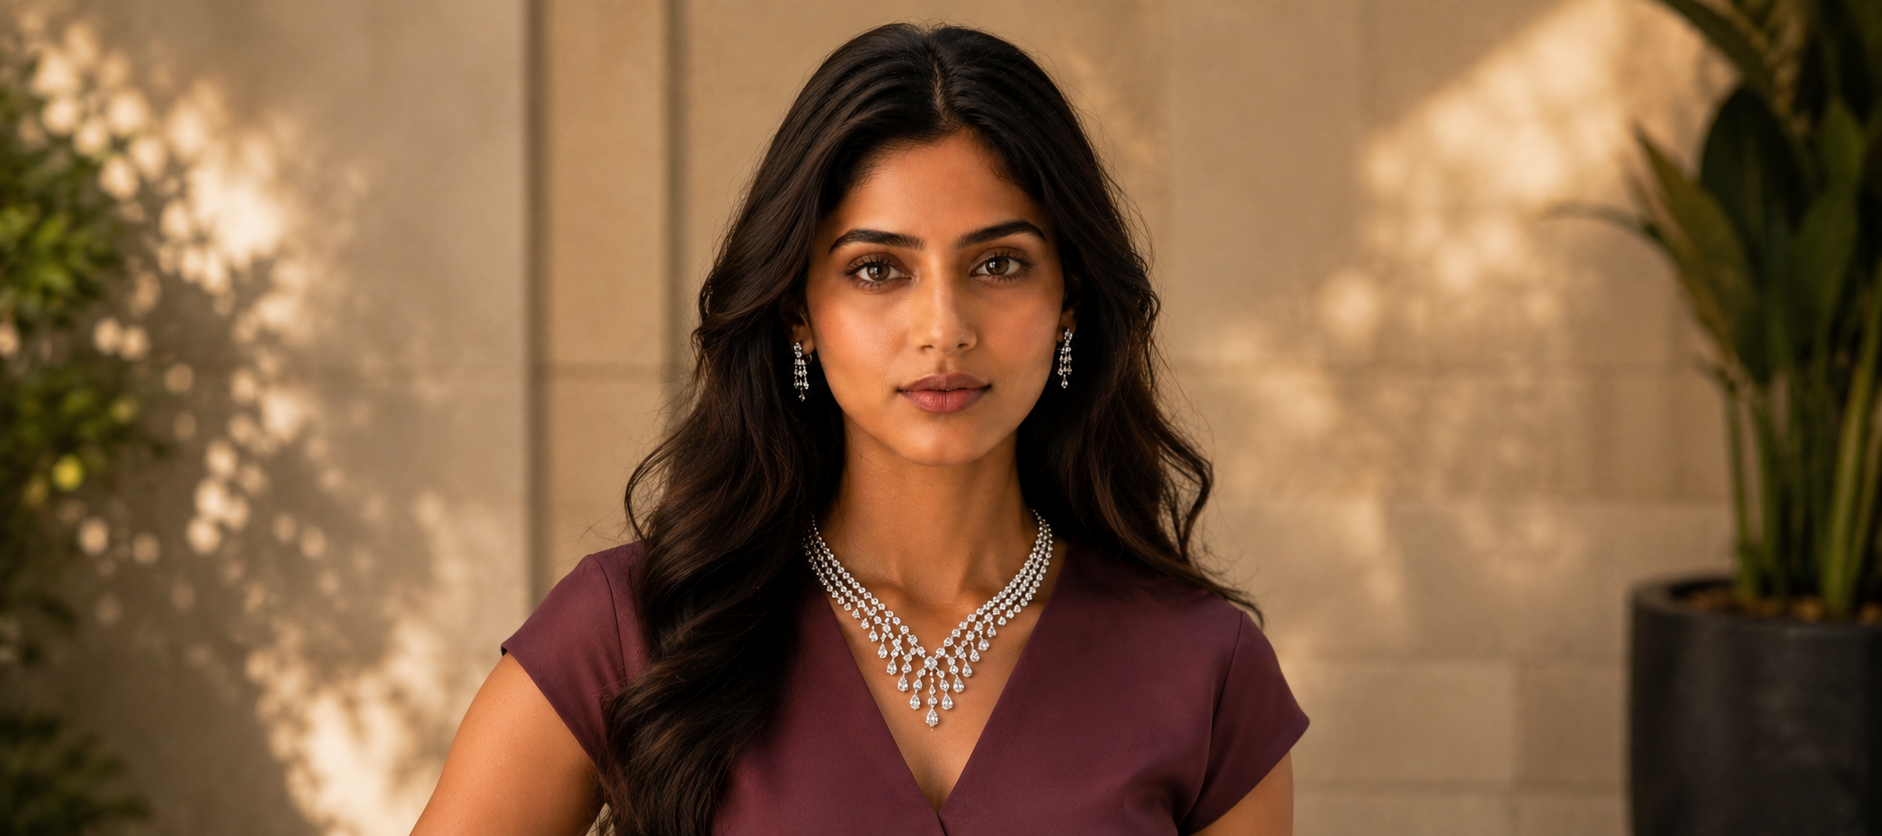
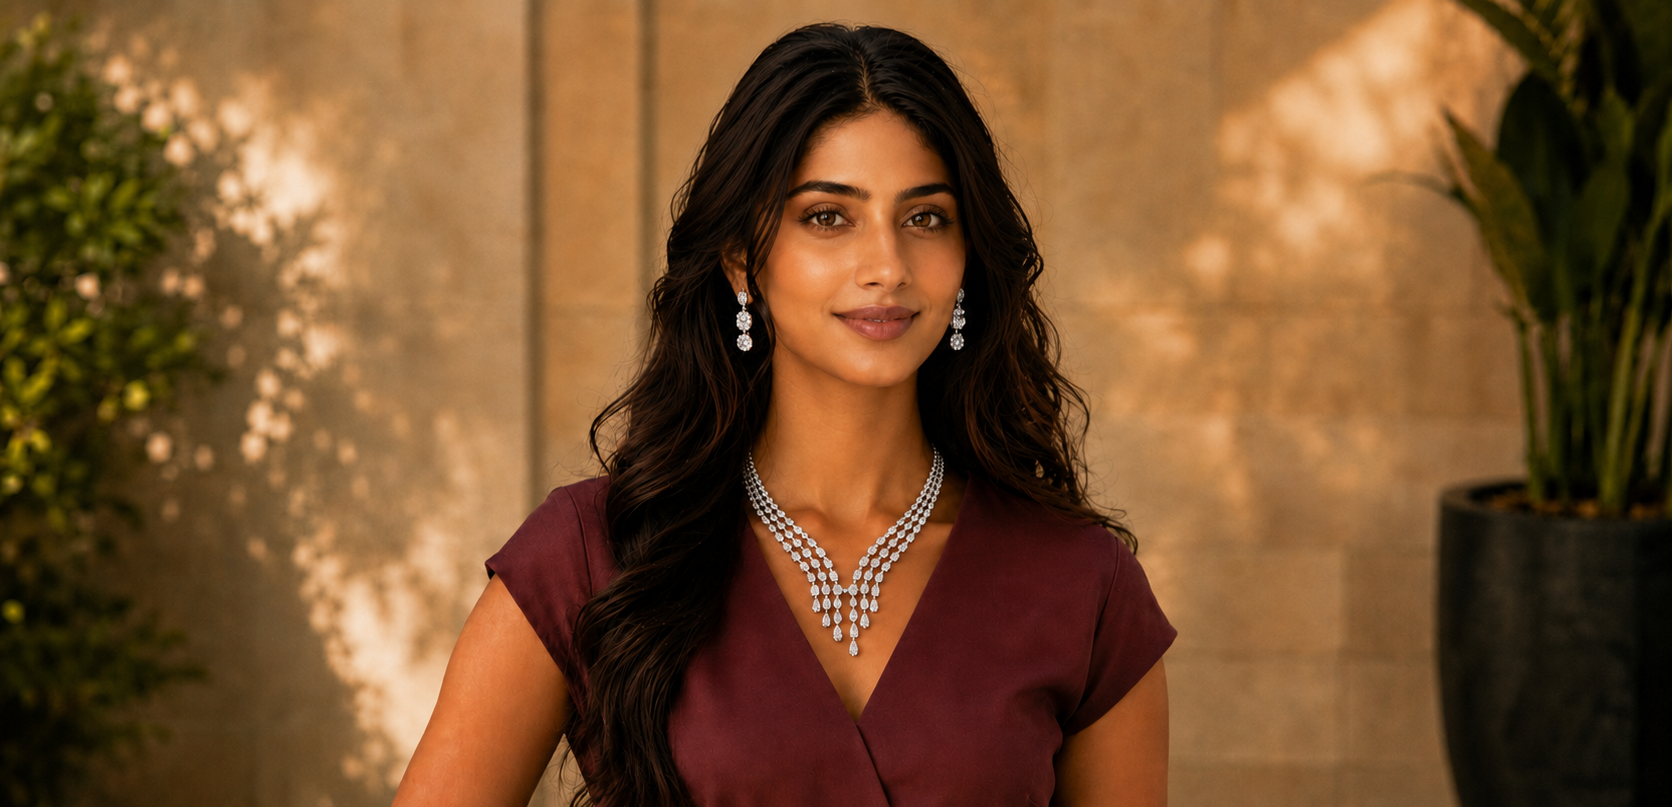
Refactor code structure for improved readability and maintainability

diff --git a/client/src/pages/HomePage.tsx b/client/src/pages/HomePage.tsx
@@ -69,7 +69,7 @@ const FAQS: FAQ[] = [
     {
         id: "2",
         question: "Are Lab Grown Diamonds real?",
-        answer: "Yes, lab-grown diamonds are 100% real diamonds. A diamond is categorized by its chemical structure and composition—not its origin. Both lab-grown and mined diamonds possess the exact same crystalline structure of pure carbon atoms, ensuring that they share the identical properties of genuine diamonds."
+        answer: "A diamond is categorized by its chemical structure and composition—not its origin. Both lab-grown and mined diamonds possess the exact same crystalline structure of pure carbon atoms, ensuring that they share the identical properties of genuine diamonds."
     },
     {
         id: "3",
@@ -78,8 +78,8 @@ const FAQS: FAQ[] = [
     },
     {
         id: "4",
-        question: "Are Lab-Grown Diamonds worth buying and do you offer buyback?",
-        answer: "Absolutely. Lab-grown diamonds are worth buying because they are real diamonds that last forever. Just like traditional jewellers offer terms on natural diamonds, TBA offers a reliable value-assurance policy including an 80% buyback and a 100% exchange policy on our lab-grown diamond collections."
+        question: "Are Lab-Grown Diamonds worth buying?",
+        answer: "Absolutely. Lab-grown diamonds are worth buying because they are LIKE real diamonds that last forever. TBA offers wholesale price to the customers, beacuse of whoch it is not reasonablr to provide buy back. exchange can be done at any point of time."
     },
     {
         id: "5",
@@ -89,7 +89,7 @@ const FAQS: FAQ[] = [
     {
         id: "6",
         question: "Are Lab-Grown Diamonds graded and certified?",
-        answer: "Yes. Lab-grown diamonds undergo the same rigorous grading procedures as mined diamonds. They are certified by leading global gemological laboratories, such as IGI, SGL, and EGL. Every single lab-grown diamond piece used by TBA is carefully graded and certified by these renowned, third-party organizations."
+        answer: "Yes. Lab-grown diamonds undergo the same rigorous grading procedures as mined diamonds. They are certified by leading global gemological laboratories, such as IGI, SGL, and GCI. Every single lab-grown diamond piece used by TBA is carefully graded and certified by these renowned, third-party organizations."
     },
     {
         id: "7",
@@ -333,16 +333,13 @@ export default function HomePage() {
                     </div>
                 </section>
 
-                <section className="bg-[var(--color-bg)] px-4 pb-6 pt-2 text-center md:px-6">
-                    <h1 className="font-primary text-3xl text-[var(--color-teal)] sm:text-4xl">Fine Gold, Silver &amp; Lab Grown Diamond Jewellery</h1>
-                </section>
                 {/* 2. PrimeSelection Component */}
                 <PrimeSelection />
 
                 {/* 3. Best Seller Showcase */}
                 {bestSellerProducts.length > 0 && <section className="reveal-section py-3 bg-[var(--color-bg)]" id="collection-grid">
                     <div className="container">
-                        <div className="flex flex-col items-center mb-16 text-center">
+                        <div className="flex flex-col items-center mb-5 text-center">
                             <span className="section-label">Selected Statement Masterpieces</span>
                             <h2 className="font-primary text-3xl md:text-4xl text-[var(--color-text)] tracking-wide font-light">
                                 The Best Seller Showcase
@@ -368,14 +365,12 @@ export default function HomePage() {
                 {/* 5. Testimonials static section */}
                 <section className="section-padding bg-[var(--color-bg)] overflow-hidden" id="testimonials-section">
                     <div className="container flex flex-col items-center gap-12">
-                        <div className="text-center reveal-section">
+                        <div className="flex flex-col items-center mb-5 text-center">
                             <span className="section-label">Testimonials</span>
-                            <h2 className="text-4xl md:text-5xl font-primary text-[var(--color-teal)] font-normal tracking-wide">
+                            <h2 className="font-primary text-3xl md:text-4xl text-[var(--color-text)] tracking-wide font-light">
                                 Customer Reviews
                             </h2>
-                            <p className="mt-3 font-secondary text-sm text-[var(--color-text-muted)] max-w-lg mx-auto">
-                                Read the stories from our clients who have acquired pieces of unmatched brilliance.
-                            </p>
+                            <div className="w-12 h-[1px] bg-[var(--color-cream)] mt-4" />
                         </div>
 
                         <div className="w-full max-w-2xl relative flex flex-col items-center reveal-section min-h-[300px]">

diff --git a/client/src/components/BrandCredentials.tsx b/client/src/components/BrandCredentials.tsx
@@ -3,6 +3,7 @@ import { Shield, Award } from "lucide-react";
 
 import cert1 from "../assets/whyChooseUs/IGILogo.png";
 import cert2 from "../assets/whyChooseUs/sglLogo.png";
+import cert3 from "../assets/whyChooseUs/gciLogo.png";
 
 
 export default function BrandPromise() {
@@ -27,18 +28,29 @@ export default function BrandPromise() {
             icon: <Shield className="w-5 h-5 text-[var(--color-cream)]" />,
             align: "md:pt-12" // Displace slightly lower for a designer boutique feel
         },
+        {
+            id: 3,
+            num: "03",
+            title: "Gemological Centers Identification (GCI)",
+            subtitle: "International Gemological Institute (IGI)",
+            desc: "Every single diamond is meticulously screened to authenticate precision grading on the global 4Cs matrix.",
+            img: cert3,
+            icon: <Award className="w-5 h-5 text-[var(--color-cream)]" />,
+            align: "md:pt-0" // Natural staggered alignment
+        },
     ];
 
     return (
         <>
-            {/* Part 1: Why Choose Us (Existing Cards) */}
+            {/* Part 1: Why Choose Us */}
             <section className="bg-[var(--color-bg-secondary)]" id="brand-promise-section">
                 <div className="section-padding container">
-                    <div className="text-center mb-16 reveal-section">
+                    <div className="flex flex-col items-center mb-5 text-center">
                         <span className="section-label">Our Promise</span>
-                        <h2 className="text-4xl md:text-5xl font-primary text-[var(--color-teal)] font-normal tracking-wide">
+                        <h2 className="font-primary text-3xl md:text-4xl text-[var(--color-text)] tracking-wide font-light">
                             Why Choose TBA
                         </h2>
+                        <div className="w-12 h-[1px] bg-[var(--color-cream)] mt-4" />
                     </div>
 
                     <div className="grid grid-cols-1 md:grid-cols-2 gap-6 md:gap-8 max-w-5xl mx-auto">
@@ -77,7 +89,7 @@ export default function BrandPromise() {
                     <div className="container max-w-5xl mx-auto px-4 relative z-10">
 
                         {/* Section Header */}
-                        <div className="text-center mb-16 md:mb-10">
+                        <div className="text-center mb-7 md:mb-5">
                             <span className="text-[var(--color-cream)] font-secondary text-[10px] md:text-xs tracking-[0.35em] uppercase block mb-3">
                                 Guaranteed Authenticity
                             </span>
@@ -114,9 +126,9 @@ export default function BrandPromise() {
                                     </div>
 
                                     {/* Subtitle */}
-                                    <span className="font-primary italic text-[var(--color-cream)] text-sm opacity-90 block mb-3">
+                                    {/* <span className="font-primary italic text-[var(--color-cream)] text-sm opacity-90 block mb-3">
                                         {item.subtitle}
-                                    </span>
+                                    </span> */}
 
                                     {/* Paragraph Description */}
                                     <p className="font-secondary text-xs text-white/70 leading-relaxed font-light mb-6 max-w-xs">

diff --git a/client/src/components/VisitStore.tsx b/client/src/components/VisitStore.tsx
@@ -89,14 +89,14 @@ export default function VisitStore() {
                             letterSpacing: "0.02em",
                             marginTop: "4px",
                         }}>
-                            — come find yours.
+                            - come find yours.
                         </span>
                     </h2>
 
                     {/* Info Pills */}
                     <div className="flex flex-wrap gap-2">
                         {[
-                            { icon: "ðŸ“", label: "Surat, Gujarat" },
+                            { icon: "", label: "Surat, Gujarat" },
                         ].map((item) => (
                             <span
                                 key={item.label}
@@ -120,7 +120,7 @@ export default function VisitStore() {
                     <div className="flex flex-col sm:flex-row items-start sm:items-center gap-5 mt-2">
                         {/* Primary CTA — swap href to actual Google Maps URL */}
                         <a
-                            href="#"
+                            href="https://maps.app.goo.gl/ShPZbLJnxrnBdHEE9"
                             target="_blank"
                             rel="noopener noreferrer"
                             aria-label="Get directions to TBA store on Google Maps"
@@ -144,7 +144,7 @@ export default function VisitStore() {
                         </a>
 
                         {/* Secondary CTA — swap href to actual phone number */}
-                        <a
+                        {/* <a
                             href={import.meta.env.VITE_STORE_PHONE ? `tel:${import.meta.env.VITE_STORE_PHONE}` : "#"} aria-disabled={!import.meta.env.VITE_STORE_PHONE}
                             className="no-underline transition-all duration-300"
                             style={{
@@ -166,7 +166,7 @@ export default function VisitStore() {
                             }}
                         >
                             Call Us Instead
-                        </a>
+                        </a> */}
                     </div>
                 </div>
             </div>

diff --git a/client/src/pages/ProductPage.tsx b/client/src/pages/ProductPage.tsx
@@ -149,11 +149,6 @@ export default function ProductPage({ metal = "gold" }: { metal?: "gold" | "silv
                 <div className="catalog-title-bar border-b pb-5 sm:flex sm:items-center sm:justify-between">
                     <div>
                         <h1 className="text-3xl font-serif font-semibold tracking-tight text-gray-900">{metal === "gold" ? "Gold Jewellery" : "Silver Jewellery"}</h1>
-                        <p className="mt-2 max-w-3xl text-sm leading-6 text-gray-500">
-                            {metal === "gold"
-                                ? "Explore fine gold jewellery online at The Brilliance Atelier, thoughtfully selected for everyday elegance and memorable occasions. Our collection brings together modern gold rings, refined gold earrings, graceful gold necklaces and versatile gold bracelets, with details designed to complement your personal style. Whether you are choosing a meaningful gift or adding a signature piece to your collection, discover fine gold jewellery that balances timeless craftsmanship with a contemporary finish. Browse styles made for celebrations, daily wear and everything in between."
-                                : "Shop silver jewellery online at The Brilliance Atelier for pieces that bring modern polish to everyday dressing and special occasions. Discover silver rings, silver earrings, silver necklaces and versatile silver jewellery designed with thoughtful detail. The collection also includes distinctive Moissanite jewellery and Polki jewellery for those seeking extra sparkle, texture and character. Whether you are finding a gift or choosing a new signature piece, explore elegant designs that make silver jewellery easy to wear, layer and enjoy."}
-                        </p>
                     </div>
                     <div className="mt-3 sm:mt-0 sm:ml-4">
                         <input

diff --git a/client/src/components/PrimeCollection.tsx b/client/src/components/PrimeCollection.tsx
@@ -1,7 +1,7 @@
 import React, { useState, useEffect, useRef } from "react";
 import { motion, AnimatePresence } from "framer-motion";
 import { X, ShoppingBag, ChevronLeft, ChevronRight } from "lucide-react";
-import primeCollection from '../assets/primeCollection/img1.webp';
+import primeCollection from '../assets/primeCollection/img1.png';
 
 interface Product {
     id: string;
@@ -35,9 +35,9 @@ const PRIME_LOOKS: Look[] = [
             {
                 id: "spot-necklace",
                 x: 49.5,
-                y: 64.0,
+                y: 54.0,
                 anchorX: 49.5,
-                anchorY: 82.0,
+                anchorY: 72.0,
                 label: "Diamond Tier Necklace",
                 products: [
                     {
@@ -155,9 +155,10 @@ export default function PrimeSelection() {
             <div className="container mx-auto px-4 flex flex-col items-center w-full">
 
                 {/* Section Titles */}
-                <div className="flex flex-col items-center mb-6 text-center">
+                <div className="flex flex-col items-center mb-5 text-center">
+                    <span className="section-label">Selected Statement Masterpieces</span>
                     <h2 className="font-primary text-3xl md:text-4xl text-[var(--color-text)] tracking-wide font-light">
-                        Prime Collection
+                        Prime collection
                     </h2>
                     <div className="w-12 h-[1px] bg-[var(--color-cream)] mt-4" />
                 </div>

diff --git a/client/src/components/Footer.tsx b/client/src/components/Footer.tsx
@@ -111,7 +111,7 @@ export default function Footer({ onCategoryChange }: { onCategoryChange: (catego
           <ul className="flex flex-col gap-4 font-secondary text-xs ">
             <li className="flex gap-3 items-start">
               <Phone size={14} className="text-[var(--color-cream)] shrink-0 mt-0.5" />
-              <a href="tel:+919999999999" className="hover:text-[var(--color-cream)] transition-colors">+91 99999 99999</a>
+              <a href="tel:+919999999999" className="hover:text-[var(--color-cream)] transition-colors">+918160797411</a>
             </li>
             <li className="flex gap-3 items-start">
               <Mail size={14} className="text-[var(--color-cream)] shrink-0 mt-0.5" />

diff --git a/client/src/components/Navbar.tsx b/client/src/components/Navbar.tsx
@@ -232,7 +232,7 @@ export default function Navbar({
                 Today's Live Rate
               </span>
               <span className="font-semibold tracking-wider text-[11px] uppercase sm:hidden">
-                Live Rates
+                Today's Live Rates
               </span>
             </div>
 

diff --git a/client/src/constants/assets.ts b/client/src/constants/assets.ts
@@ -43,7 +43,7 @@ export const AVATAR_ASSETS = {
 } as const;
 
 export const SOCIAL_LINKS = {
-  whatsapp: "https://wa.me/+918780316413",
+  whatsapp: "https://wa.me/+918160797411",
   instagram: "https://instagram.com/tbajewels",
 } as const;
 
